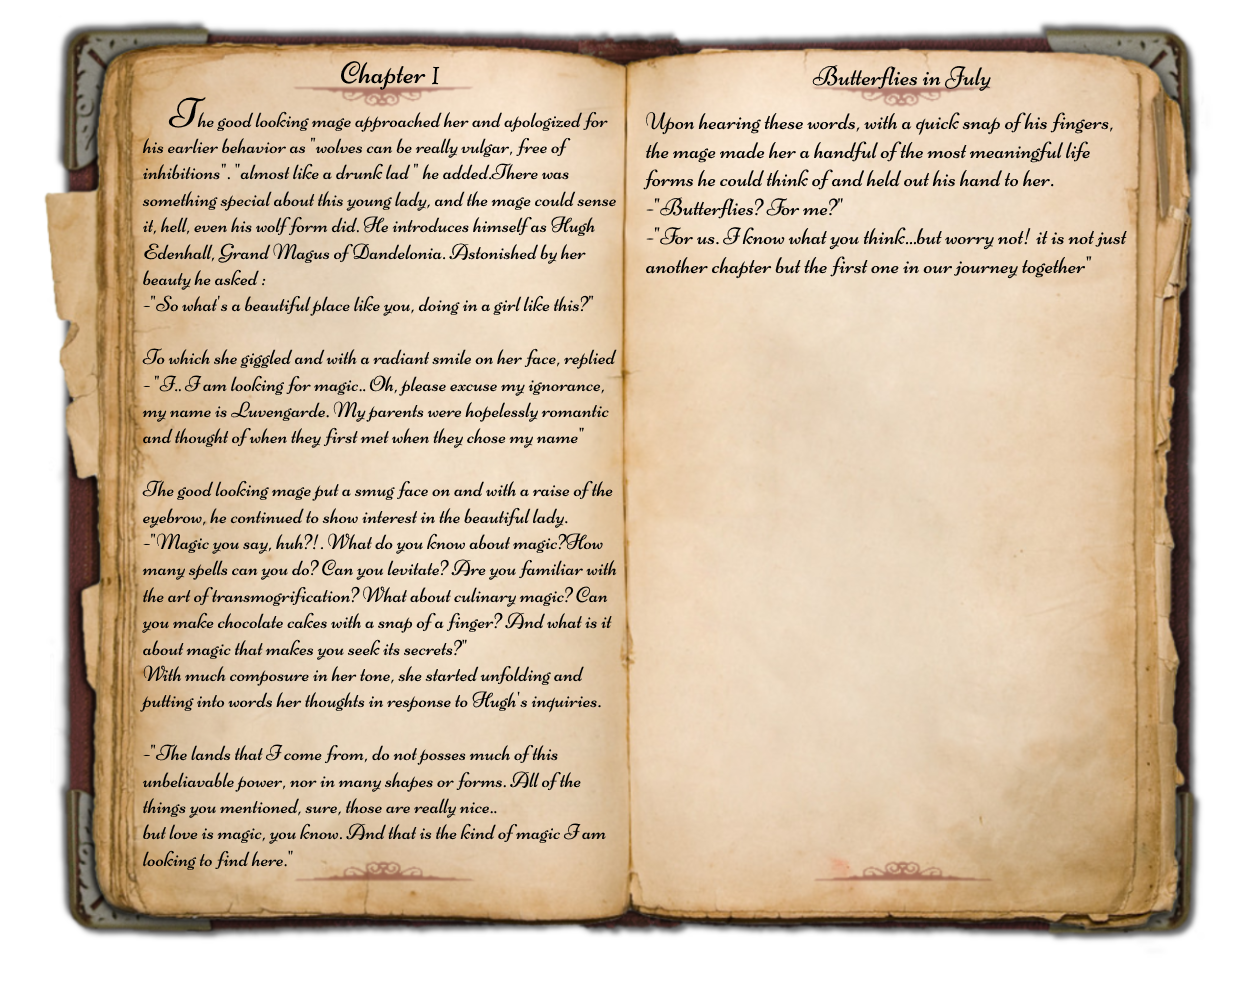
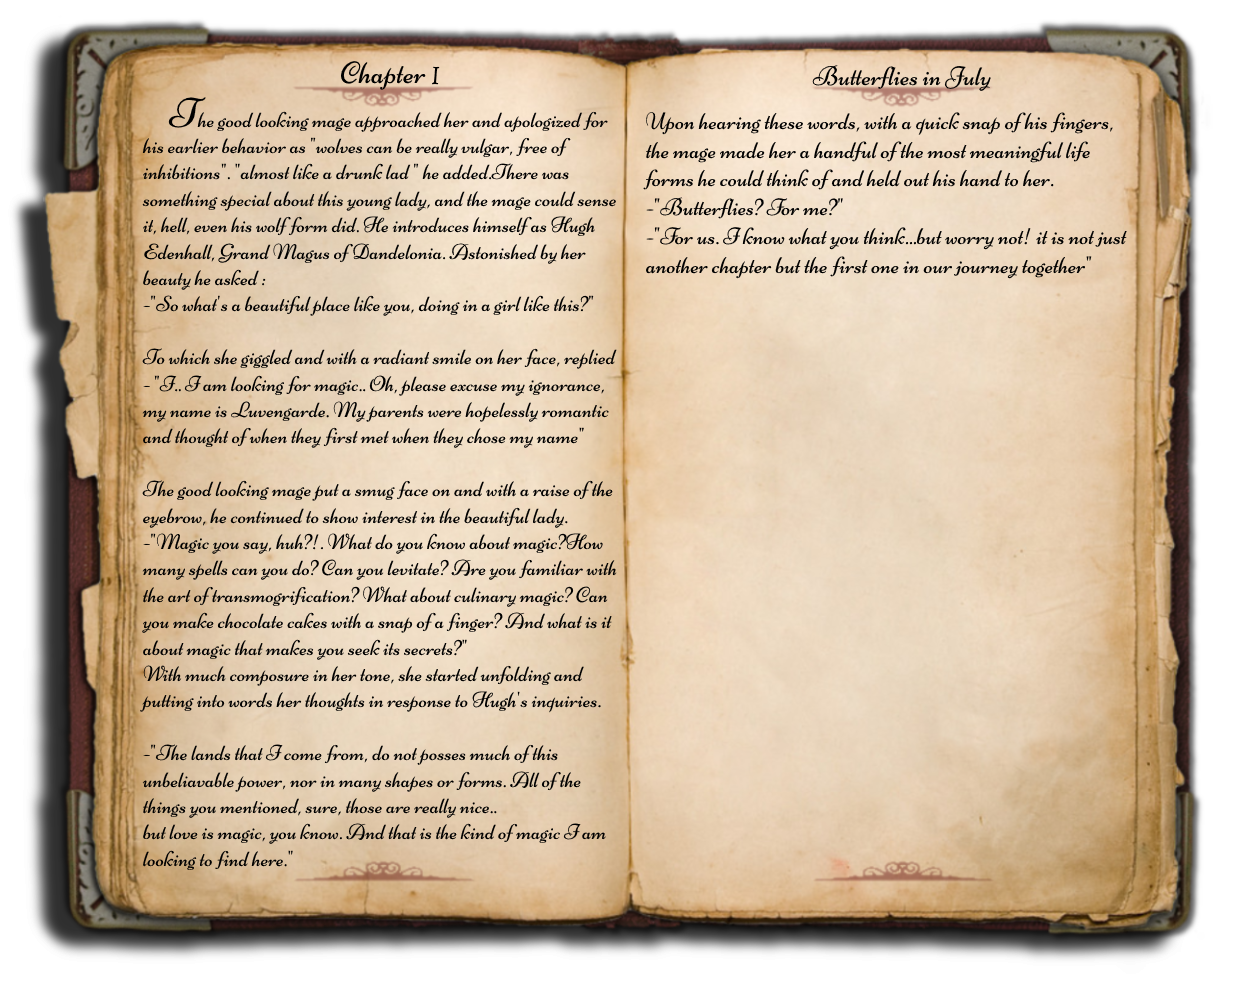
mobile looks good

Changed region(s): [[0.0, 0.0303, 0.936, 0.9687]]

diff --git a/src/App.css b/src/App.css
@@ -16,7 +16,8 @@
     width: auto;
     padding: 0 1% 0 1%;
     max-width: 100%;
-    margin: 0 auto;  
+    margin: 0 auto;
+    filter: contrast(85%) brightness(83%) saturate(130%);  
 }
 .chapter {
     position: absolute !important;
@@ -28,29 +29,30 @@
 .card {
     margin: auto;
     position: absolute !important;
-    top: 13%;
+    top: 30%;
     right: 11%;
     background-color: transparent !important;
     border: none !important;
+    height: 100%;
 }
 .card-body {
     background-color: transparent;
 }
 .card-img-bottom {
-        height: 40vw;
         object-fit: contain;
         max-width: 90%;
         padding-left: 15%;
-        margin-top: 8%;
         filter: contrast(75%) brightness(83%) saturate(60%);
+        height: 60%;
 }
 
 .containeru {
-    background-image: url(./assets/bckg.jpg);
-    background-size: 100vw 100vh;
+    background-image: url(./assets/background.jpg);
+    background-size: cover;
     background-repeat: no-repeat;
     height: 100vh;
     width: 100vw;
+    
     
 }
 
